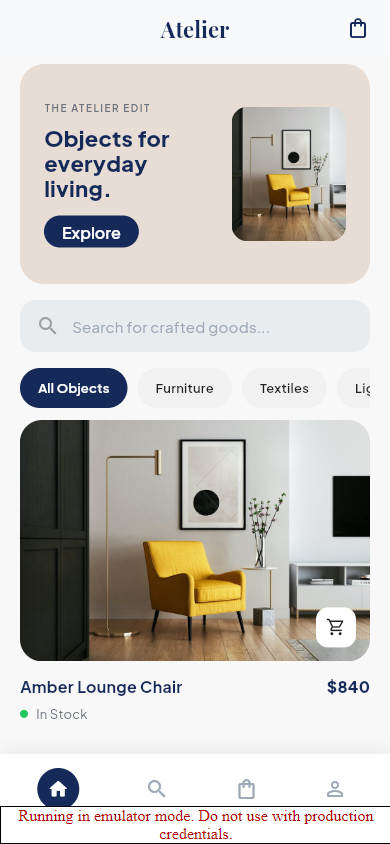
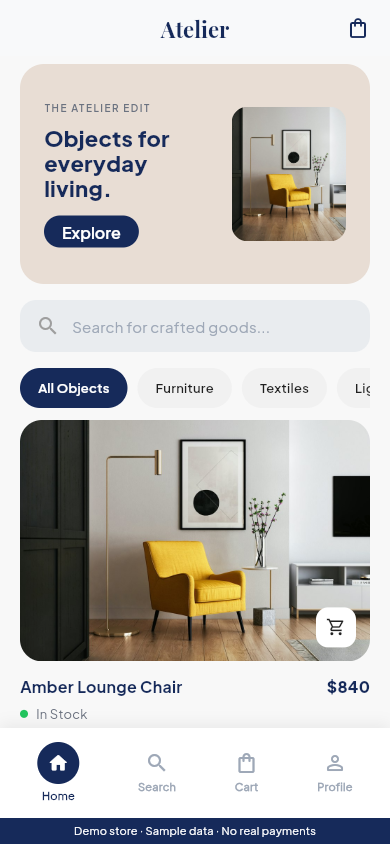
Polish mobile demo notice and refresh storefront preview

Changed region(s): [[0.0, 0.8626, 1.0, 1.0]]

diff --git a/lib/main.dart b/lib/main.dart
@@ -129,6 +129,35 @@ class AtelierApp extends StatelessWidget {
       initialRoute: AppRoutes.splash,
       initialBinding: InitialBinding(),
       getPages: AppPages.routes,
+      builder: (context, child) {
+        if (!const bool.fromEnvironment('USE_FIREBASE_EMULATORS')) {
+          return child ?? const SizedBox.shrink();
+        }
+        return Column(
+          children: [
+            Expanded(child: child ?? const SizedBox.shrink()),
+            Material(
+              color: AppColors.navy,
+              child: SafeArea(
+                top: false,
+                child: SizedBox(
+                  height: 26,
+                  child: Center(
+                    child: Text(
+                      'Demo store · Sample data · No real payments',
+                      style: const TextStyle(
+                        color: Colors.white,
+                        fontSize: 11,
+                        fontWeight: FontWeight.w500,
+                      ),
+                    ),
+                  ),
+                ),
+              ),
+            ),
+          ],
+        );
+      },
     );
   }
 }

diff --git a/web/index.html b/web/index.html
@@ -29,7 +29,11 @@
   <!-- Favicon -->
   <link rel="icon" type="image/png" href="favicon.png"/>
 
-  <title>mine_ecommerce</title>
+  <title>Atelier Commerce</title>
+  <style>
+    /* Emulator mode has a persistent, layout-aware Flutter demo notice instead. */
+    .firebase-emulator-warning { display: none !important; }
+  </style>
   <link rel="manifest" href="manifest.json">
 </head>
 <body>
